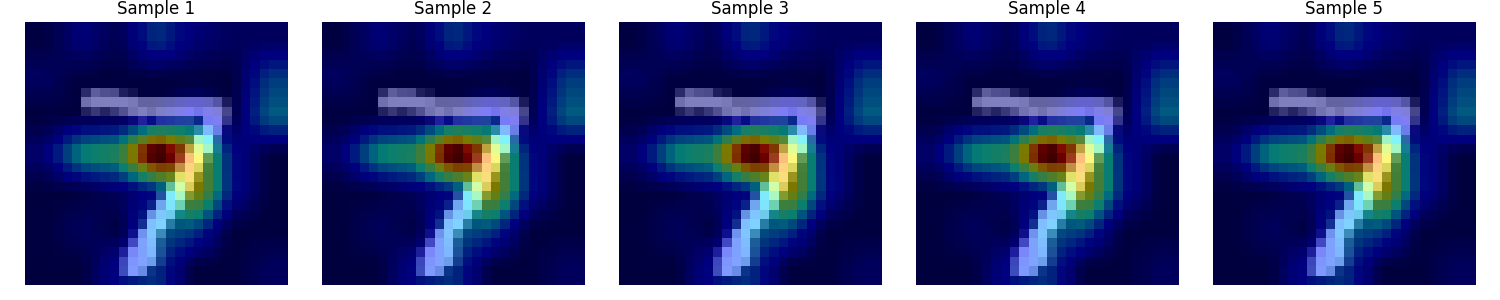
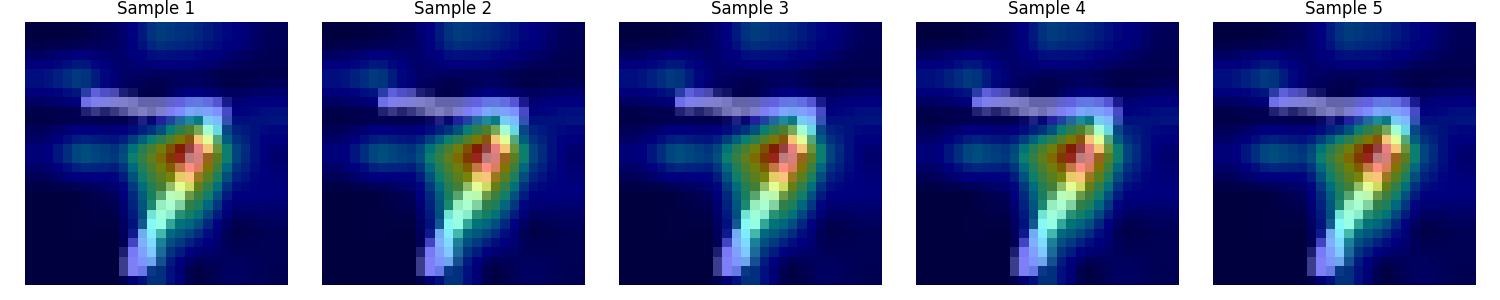
Update Monte Carlo Dropout Grad-CAM to use 60 samples and add new Grad-CAM result images

diff --git a/src/main.py b/src/main.py
@@ -236,7 +236,7 @@ def main():
         break
     
     # 執行 Monte Carlo Dropout Grad-CAM
-    mean_cam, std_cam, cam_samples = mc_dropout_gradcam(model, test_image, num_samples=30)
+    mean_cam, std_cam, cam_samples = mc_dropout_gradcam(model, test_image, num_samples=60)
     
     # 可視化結果
     visualize_results(test_image, mean_cam, std_cam, cam_samples)
